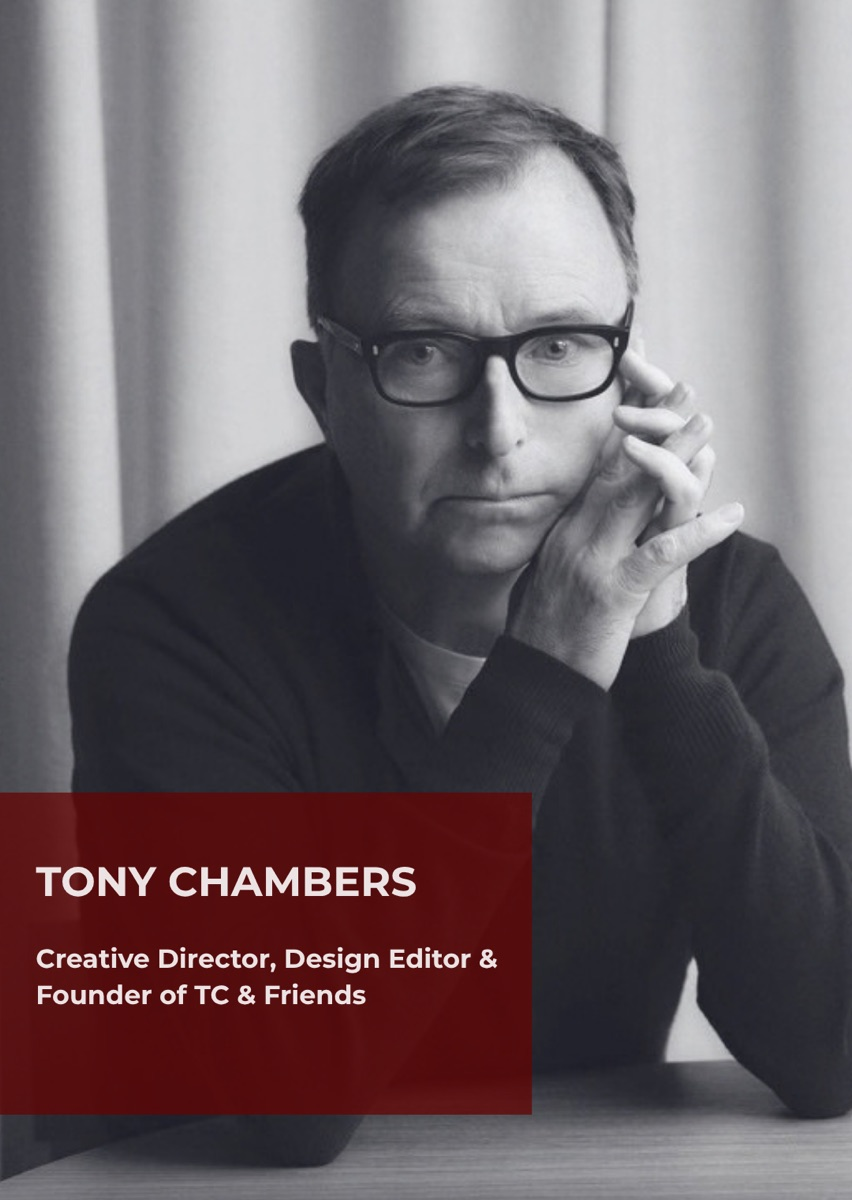
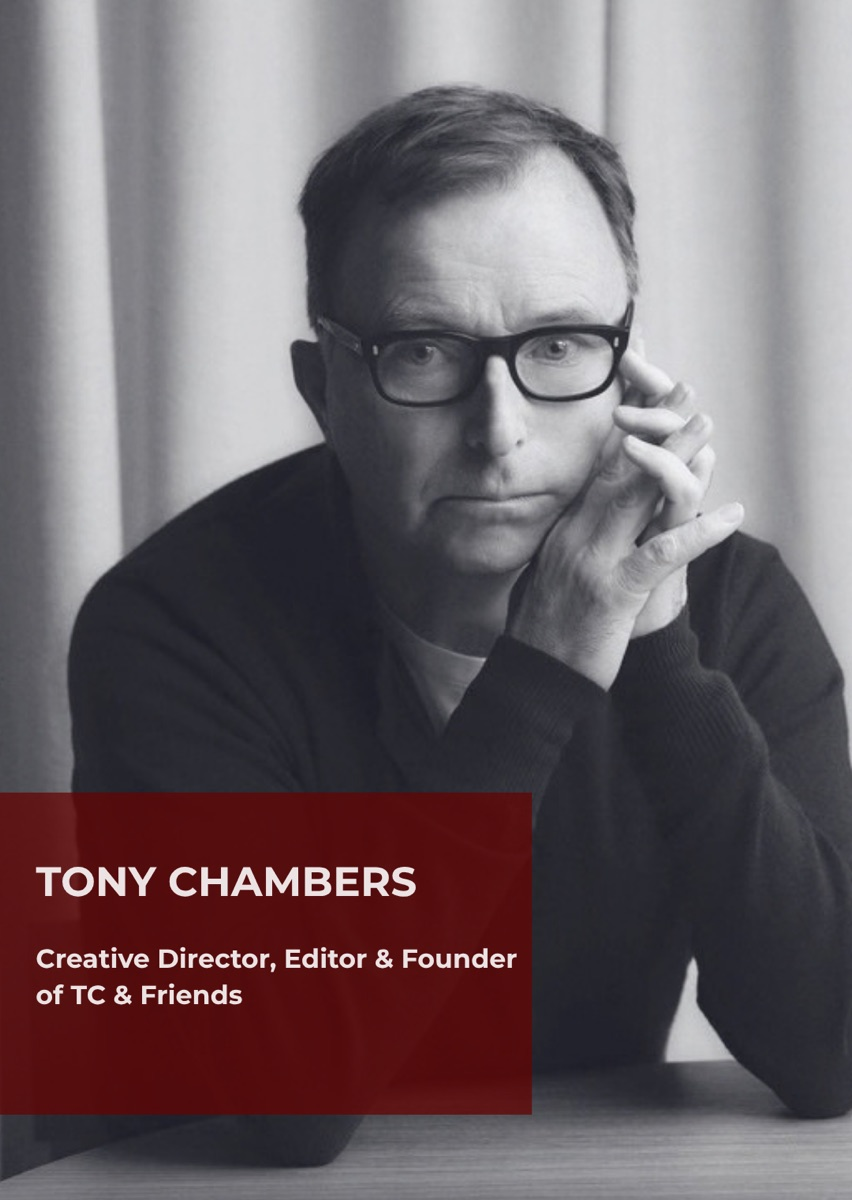
Add Alex Eagle and Jeremy King, and update Tony Chambers's photo and role

Changed region(s): [[0.0305, 0.7708, 0.6103, 0.8633]]

diff --git a/speakers.html b/speakers.html
@@ -182,6 +182,19 @@
 
         <article class="speaker">
           <figure class="speaker-photo">
+            <img src="assets/speaker-alex-eagle.jpg" width="852" height="1200" loading="lazy"
+                 alt="Alex Eagle, creative director, photographed in black and white.">
+          </figure>
+          <div class="speaker-profile">
+            <h2 class="speaker-name">Alex Eagle</h2>
+            <p class="label speaker-role">Creative Director &middot; Cultural Tastemaker</p>
+            <p class="speaker-bio">Alex Eagle has built a distinctive creative world where fashion, art, design and culture come together. Moving effortlessly between fashion, interiors and lifestyle, Alex represents a new generation of cultural tastemakers who understand that true influence is not simply about what we create, but how we shape the way people see, experience and engage with the world.</p>
+            <p class="speaker-bio">Through Alex Eagle Studio and Eagle &amp; Hodges, she brings her distinctive vision to life, from reimagining the traditional concept of retail to creating interiors and spaces that celebrate craftsmanship, individuality and the art of living. More than a creative mind, Alex is a cultural force who translates her instinct for what matters next into spaces, experiences and ideas that shape the way we live, discover and connect.</p>
+          </div>
+        </article>
+
+        <article class="speaker">
+          <figure class="speaker-photo">
             <img src="assets/speaker-dylan-jones.jpg" width="852" height="1200" loading="lazy"
                  alt="Dylan Jones, editor, author and cultural curator, photographed in black and white.">
           </figure>
@@ -223,9 +236,23 @@
           </figure>
           <div class="speaker-profile">
             <h2 class="speaker-name">Tony Chambers</h2>
-            <p class="label speaker-role">Creative Director &middot; Design Editor &amp; Founder of TC &amp; Friends</p>
+            <p class="label speaker-role">Creative Director &middot; Editor &amp; Founder of TC &amp; Friends</p>
             <p class="speaker-bio">Tony Chambers is one of the most influential voices in contemporary design and visual culture, a creative visionary whose instinct for what matters next has helped shape the global conversation around design, architecture, fashion and lifestyle. As former Editor-in-Chief of <em>Wallpaper</em>, he transformed the magazine into a global cultural authority, championing exceptional creative talent and bringing together some of the world&rsquo;s most influential designers, artists and architects. His vision extended beyond publishing with the creation of Wallpaper Handmade, a celebrated platform connecting designers, artists, craftspeople and manufacturers through extraordinary collaborations.</p>
             <p class="speaker-bio">Today, as founder of the multidisciplinary creative agency TC &amp; Friends, he continues to bridge creativity, culture and commerce, working across design, branding and visual storytelling. A recipient of the prestigious Mark Boxer Award for outstanding services to publishing, Chambers has built a career around a singular conviction: great design has the power to shape not only what we see, but how we live, think and experience the world.</p>
+          </div>
+        </article>
+
+        <article class="speaker">
+          <figure class="speaker-photo">
+            <img src="assets/speaker-jeremy-king.jpg" width="852" height="1200" loading="lazy"
+                 alt="Jeremy King, restaurateur, photographed in black and white outside a restaurant.">
+          </figure>
+          <div class="speaker-profile">
+            <h2 class="speaker-name">Jeremy King</h2>
+            <p class="label speaker-role">Legendary Restaurateur &amp; Hospitality Visionary</p>
+            <p class="speaker-bio">Few individuals have shaped London&rsquo;s dining culture as profoundly as Jeremy King. Over five decades, he has transformed the art of hospitality, creating some of the capital&rsquo;s most celebrated and enduring institutions, from Le Caprice and The Ivy to The Wolseley and The Delaunay. His remarkable ability to bring together architecture, design, atmosphere and human connection has redefined what a great restaurant can be, turning dining rooms into cultural landmarks and gathering places for generations.</p>
+            <p class="speaker-bio">Awarded an OBE for his contributions to hospitality and the arts, Jeremy continues to shape London&rsquo;s restaurant landscape through Arlington, The Park and his extraordinary revival of the historic Simpson&rsquo;s in the Strand.</p>
+            <p class="speaker-bio">For Jeremy, a restaurant is never simply about food. It is about creating a world people want to belong to, where every detail matters and hospitality becomes an art form. Behind his extraordinary journey lies an equally compelling story of resilience, conviction and an unwavering commitment to purpose. His career is a testament to the power of staying true to one&rsquo;s vision, embracing reinvention and never losing sight of what makes something truly worth creating.</p>
           </div>
         </article>
 
